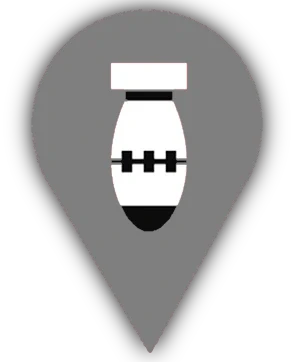
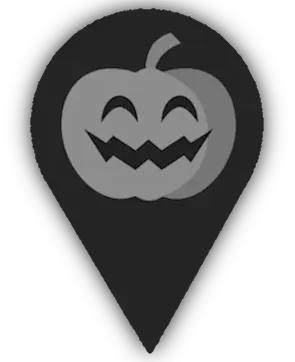
🎃

diff --git a/src/js/squadCalc.js b/src/js/squadCalc.js
@@ -387,7 +387,7 @@ export default class SquadCalc {
 
     closeMenu() {
         $("#footerButtons").removeClass("expanded");
-        $(".fab4").html("<svg xmlns=\"http://www.w3.org/2000/svg\" viewBox=\"0 0 448 512\"><path d=\"M0 96C0 78.3 14.3 64 32 64l384 0c17.7 0 32 14.3 32 32s-14.3 32-32 32L32 128C14.3 128 0 113.7 0 96zM0 256c0-17.7 14.3-32 32-32l384 0c17.7 0 32 14.3 32 32s-14.3 32-32 32L32 288c-17.7 0-32-14.3-32-32zM448 416c0 17.7-14.3 32-32 32L32 448c-17.7 0-32-14.3-32-32s14.3-32 32-32l384 0c17.7 0 32 14.3 32 32z\"/></svg>");
+        $(".fab4").html("<svg xmlns='http://www.w3.org/2000/svg' viewBox='0 0 640 640'><path d='M168.1 531.1L156.9 540.1C153.7 542.6 149.8 544 145.8 544C136 544 128 536 128 526.2L128 256C128 150 214 64 320 64C426 64 512 150 512 256L512 526.2C512 536 504 544 494.2 544C490.2 544 486.3 542.6 483.1 540.1L471.9 531.1C458.5 520.4 439.1 522.1 427.8 535L397.3 570C394 573.8 389.1 576 384 576C378.9 576 374.1 573.8 370.7 570L344.1 539.5C331.4 524.9 308.7 524.9 295.9 539.5L269.3 570C266 573.8 261.1 576 256 576C250.9 576 246.1 573.8 242.7 570L212.2 535C200.9 522.1 181.5 520.4 168.1 531.1zM288 256C288 238.3 273.7 224 256 224C238.3 224 224 238.3 224 256C224 273.7 238.3 288 256 288C273.7 288 288 273.7 288 256zM384 288C401.7 288 416 273.7 416 256C416 238.3 401.7 224 384 224C366.3 224 352 238.3 352 256C352 273.7 366.3 288 384 288z'/></svg>");
     }
 
     loadUI(){
@@ -813,7 +813,6 @@ export default class SquadCalc {
 
         const root = document.documentElement;
         root.style.setProperty("--font-size-objtext", `${fontSize}em`);
-        root.style.setProperty("-size-text-preview", `${fontSize}em`);
         root.style.setProperty("--font-size-calc-popup", `${fontSize - 0.1}em`);
         $("#textPreview").css("font-size", `${fontSize}em`);
 

diff --git a/src/components/footer/footer.html b/src/components/footer/footer.html
@@ -5,9 +5,7 @@
         <div class="fabs menuButton">
             <input id="fabCheckbox4" type="checkbox" class="fab-checkbox2">
             <label class="fab fab4" for="fabCheckbox4">
-                <svg xmlns="http://www.w3.org/2000/svg" viewBox="0 0 448 512">
-                    <path d="M0 96C0 78.3 14.3 64 32 64l384 0c17.7 0 32 14.3 32 32s-14.3 32-32 32L32 128C14.3 128 0 113.7 0 96zM0 256c0-17.7 14.3-32 32-32l384 0c17.7 0 32 14.3 32 32s-14.3 32-32 32L32 288c-17.7 0-32-14.3-32-32zM448 416c0 17.7-14.3 32-32 32L32 448c-17.7 0-32-14.3-32-32s14.3-32 32-32l384 0c17.7 0 32 14.3 32 32z"/>
-                </svg>
+                <svg xmlns="http://www.w3.org/2000/svg" viewBox="0 0 640 640"><path d="M168.1 531.1L156.9 540.1C153.7 542.6 149.8 544 145.8 544C136 544 128 536 128 526.2L128 256C128 150 214 64 320 64C426 64 512 150 512 256L512 526.2C512 536 504 544 494.2 544C490.2 544 486.3 542.6 483.1 540.1L471.9 531.1C458.5 520.4 439.1 522.1 427.8 535L397.3 570C394 573.8 389.1 576 384 576C378.9 576 374.1 573.8 370.7 570L344.1 539.5C331.4 524.9 308.7 524.9 295.9 539.5L269.3 570C266 573.8 261.1 576 256 576C250.9 576 246.1 573.8 242.7 570L212.2 535C200.9 522.1 181.5 520.4 168.1 531.1zM288 256C288 238.3 273.7 224 256 224C238.3 224 224 238.3 224 256C224 273.7 238.3 288 256 288C273.7 288 288 273.7 288 256zM384 288C401.7 288 416 273.7 416 256C416 238.3 401.7 224 384 224C366.3 224 352 238.3 352 256C352 273.7 366.3 288 384 288z"/></svg>
             </label>
         </div>
         <div class="fabs settingsButton">

diff --git a/src/components/dialogs/settings.scss b/src/components/dialogs/settings.scss
@@ -184,7 +184,7 @@
                             -webkit-appearance: none;
                             width: 16px;
                             height: 16px;
-                            background: linear-gradient(135deg, #b22222 0%, #8b0000 100%);
+                            background: linear-gradient(135deg, variables.$mainColor 0%, variables.$mainColor 100%);
                             border: 2px solid rgba(255, 255, 255, 0.1);
                             border-radius: 50%;
                             cursor: pointer;
@@ -199,7 +199,7 @@
                         input[type="range"]::-moz-range-thumb {
                             width: 16px;
                             height: 16px;
-                            background: linear-gradient(135deg, #b22222 0%, #8b0000 100%);
+                            background: linear-gradient(135deg, variables.$mainColor 0%, variables.$mainColor 100%);
                             border: 1px solid rgba(255, 255, 255, 0.7);
                             border-radius: 50%;
                             cursor: pointer;

diff --git a/src/components/map/mapLogo.scss b/src/components/map/mapLogo.scss
@@ -8,7 +8,7 @@
     display: table;
     font-family: variables.$logoFont, Times, "Times New Roman", serif;
     text-transform: uppercase;
-    font-size: 7em;
+    font-size: 4em;
     letter-spacing: 0;
     span {
         font-weight: bolder;
@@ -18,10 +18,10 @@
         span {
             display: inline-block;
         }
-        span:nth-child(1) {
+        span:nth-child(2) {
             padding: 0 0 10px;
         }
-        span:nth-child(2) {
+        span:nth-child(3) {
             padding: 0 15px 10px;
             background: linear-gradient(to right, variables.$mainColor 50%, variables.$mainBGColor 50%);
             background-size: 200% 100%;

diff --git a/src/components/map/map.html b/src/components/map/map.html
@@ -9,6 +9,7 @@
         </div>
         <div id="background" class="pure-g">
             <span id="backgroundLogo">
+                <span>🎃</span>
                 <span data-i18n="common:squad"></span>
                 <span data-i18n="common:calc"></span>
             </span>

diff --git a/src/components/header/header.html b/src/components/header/header.html
@@ -26,6 +26,7 @@
 
 <div id="loader" class="pure-g">
     <span id="loaderLogo" class="animate__animated animate__fadeIn">
+        <span>🎃</span>
         <span data-i18n="common:squad">SQUAD</span>
         <span data-i18n="common:calc">CALC</span>
     </span>

diff --git a/src/components/shared/_variables.scss b/src/components/shared/_variables.scss
@@ -1,5 +1,5 @@
 // Colors
-$mainColor: firebrick;
+$mainColor: rgb(219, 62, 0);
 $mainBGColor: #111;
 $mainTxtColor: #fff;
 $newColor: green;
